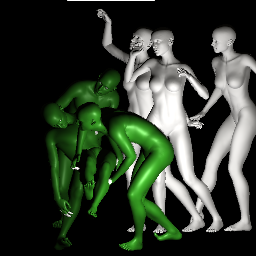
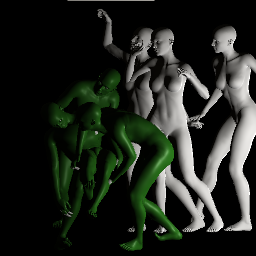
Added transition painting

diff --git a/Assets/Scripts/CapturePainting.cs b/Assets/Scripts/CapturePainting.cs
@@ -3,7 +3,8 @@ using System.Collections.Generic;
 using System.IO;
 using UnityEngine;
 
-public class CapturePainting : MonoBehaviour {
+public class CapturePainting : MonoBehaviour
+{
 
     public RenderTexture paintingScreen;
     public GameObject screenLayer1;
@@ -15,10 +16,11 @@ public class CapturePainting : MonoBehaviour {
     private int frameCount = 0;
     private Texture2D resultantImage;
     public RenderTexture currentRT;
-  
+
 
     // Use this for initialization
-    void Start () {
+    void Start()
+    {
 
 
         bigScreen2MeshRenderer = screenLayer2.GetComponent<MeshRenderer>();
@@ -28,7 +30,7 @@ public class CapturePainting : MonoBehaviour {
         if (Directory.Exists(screenshotsDirectory))
         {
             Directory.Delete(screenshotsDirectory, true);
-        }      
+        }
         //if (!Application.isEditor)
         if (!Directory.Exists(screenshotsDirectory))
         {
@@ -53,11 +55,12 @@ public class CapturePainting : MonoBehaviour {
 
     private void OnPostRender()
     {
-        
+
     }
 
     // Update is called once per frame
-    void Update () {
+    void Update()
+    {
 
         //Taking Screenshots
         //frameCount += 1;
@@ -84,7 +87,7 @@ public class CapturePainting : MonoBehaviour {
             TakeScreenShot();
             ReadPixelsOut("SS_" + screenshotCount + ".png");
             //FreezeCam();
-            
+
             //StartFreezing();
 
         }
@@ -106,7 +109,11 @@ public class CapturePainting : MonoBehaviour {
             Texture2D tex = new Texture2D(cam.targetTexture.width, cam.targetTexture.height, TextureFormat.RGB24, false);
             tex.LoadImage(bytes);
 
-            screenLayer2.GetComponent<Renderer>().material.mainTexture = tex;
+            screenLayer1.GetComponent<Renderer>().material.mainTexture = tex;
+
+            StartCoroutine("FadePaintingIn");
+
+            //screenLayer2.GetComponent<Renderer>().material.mainTexture = tex;
 
 
             // save on disk
@@ -120,46 +127,48 @@ public class CapturePainting : MonoBehaviour {
     IEnumerator FadePaintingIn()
     {
 
-        if(screenshotCount == 1)
+        //if(screenshotCount == 1)
+        //{
+        Color tcolor1;
+        Color tcolor2;
+
+        for (float f = 1.0f; f >= 0; f -= 0.005f)
         {
-            Color tcolor1;
-            Color tcolor2;
+            tcolor1 = screenLayer1.GetComponent<Renderer>().material.color;
+            tcolor2 = screenLayer2.GetComponent<Renderer>().material.color;
+            tcolor1.a = 1 - f;
+            tcolor2.a = f;
+            ////imageLayer1.color = tcolor1;
+            screenLayer1.GetComponent<Renderer>().material.color = tcolor1;
 
-            for (float f = 1.0f; f >= 0; f -= 0.005f)
-            {
-                //tcolor1 = layer1.GetComponent<Renderer>().material.color;
-                //tcolor2 = layer2.GetComponent<Renderer>().material.color;
-                //tcolor1.a = f;
-                //tcolor2.a = 1 - f;
-                ////imageLayer1.color = tcolor1;
-                //layer2.GetComponent<Renderer>().material.color = tcolor2;
+            //matEnvironment1 = stages[layer].GetComponent<SkinnedMeshRenderer>().materials;
+            //for (int i = 0; i < matEnvironment1.Length; i++)
+            //{
+            //    tColorEnvironment = matEnvironment1[i].color;
+            //    tColorEnvironment.a = f;
 
-                //matEnvironment1 = stages[layer].GetComponent<SkinnedMeshRenderer>().materials;
-                //for (int i = 0; i < matEnvironment1.Length; i++)
-                //{
-                //    tColorEnvironment = matEnvironment1[i].color;
-                //    tColorEnvironment.a = f;
+            //    matEnvironment1[i].color = tColorEnvironment;
+            //}
 
-                //    matEnvironment1[i].color = tColorEnvironment;
-                //}
+            //matEnvironment2 = stages[layer + 1].GetComponent<SkinnedMeshRenderer>().materials;
+            //for (int i = 0; i < matEnvironment2.Length; i++)
+            //{
+            //    tColorEnvironment = matEnvironment2[i].color;
+            //    tColorEnvironment.a = 1.0f - f;
 
-                //matEnvironment2 = stages[layer + 1].GetComponent<SkinnedMeshRenderer>().materials;
-                //for (int i = 0; i < matEnvironment2.Length; i++)
-                //{
-                //    tColorEnvironment = matEnvironment2[i].color;
-                //    tColorEnvironment.a = 1.0f - f;
-
-                //    matEnvironment2[i].color = tColorEnvironment;
-                //}
+            //    matEnvironment2[i].color = tColorEnvironment;
+            //}
 
 
 
-                yield return new WaitForSeconds(0.005f);
+            yield return new WaitForSeconds(0.005f);
 
-
-            }
 
         }
+
+        screenLayer2.GetComponent<Renderer>().material.mainTexture = screenLayer1.GetComponent<Renderer>().material.mainTexture;
+
+        //}
 
 
         yield return new WaitForSeconds(0.005f);
@@ -177,8 +186,8 @@ public class CapturePainting : MonoBehaviour {
 
         //bigScreen2.GetComponent<MeshRenderer>().material.mainTexture = resultantImage;
 
-       
-        
+
+
         resultantImage.ReadPixels(new Rect(0, 0, cam.targetTexture.width, cam.targetTexture.height), 0, 0);
         resultantImage.Apply();
     }
